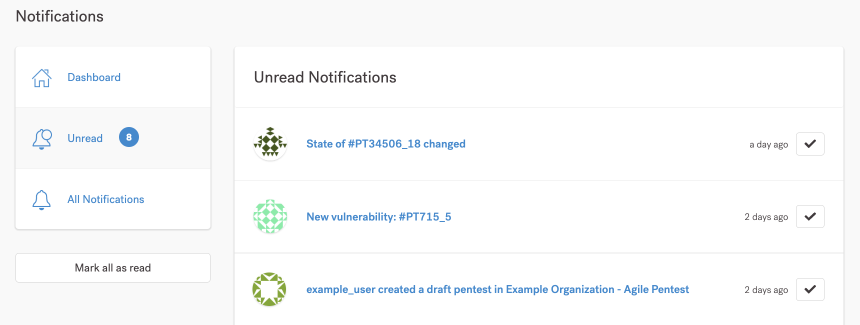
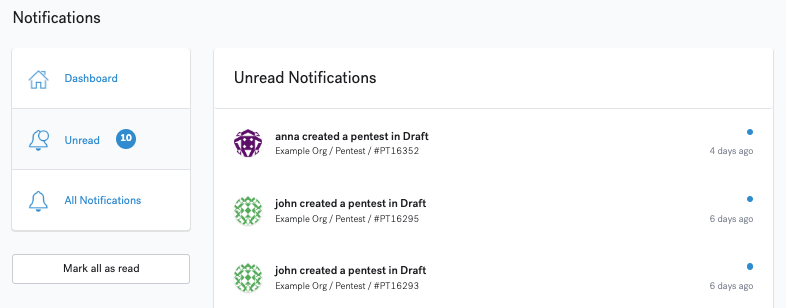
Minor updates

diff --git a/content/en/Platform Deep Dive/Collaboration/manage-notifications.md b/content/en/Platform Deep Dive/Collaboration/manage-notifications.md
@@ -64,7 +64,7 @@ To view notifications for all organizations you belong to, select the bell icon 
 On the **Notifications** page, you can select to view unread or all notifications.
 
 - To mark all notifications as read, select **Mark all as read**.
-- To mark a single notification as read, select the checkmark icon ✔.
+- To mark a single notification as read, select the dot icon •.
 
 ![View all notifications](/deepdive/NotificationsPage.png "View all notifications")
 
